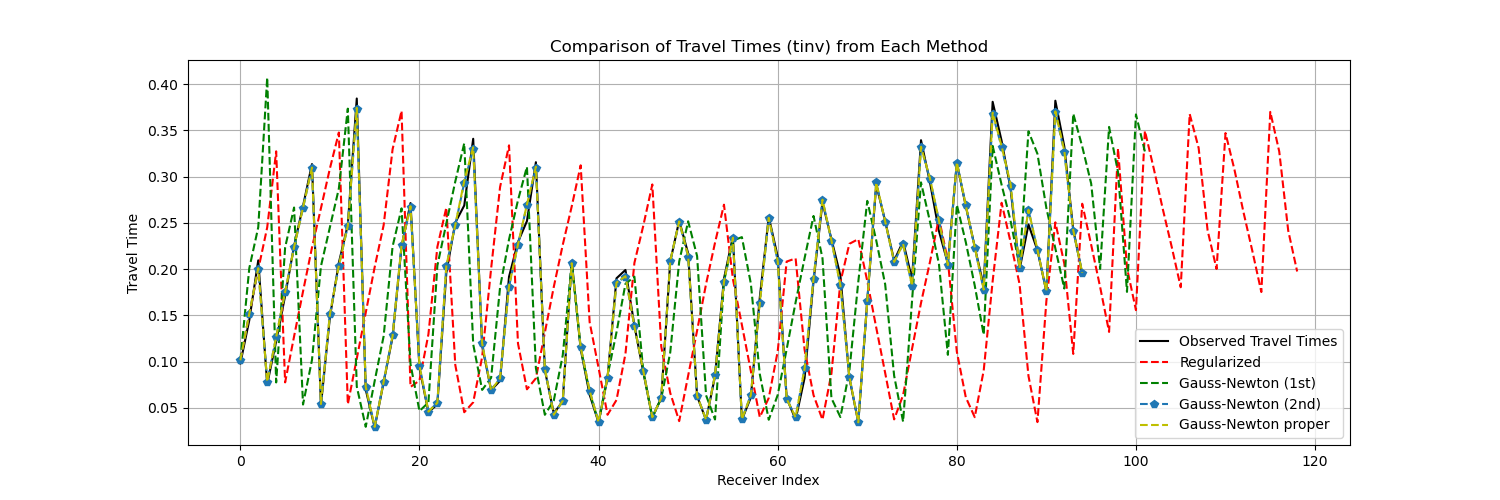
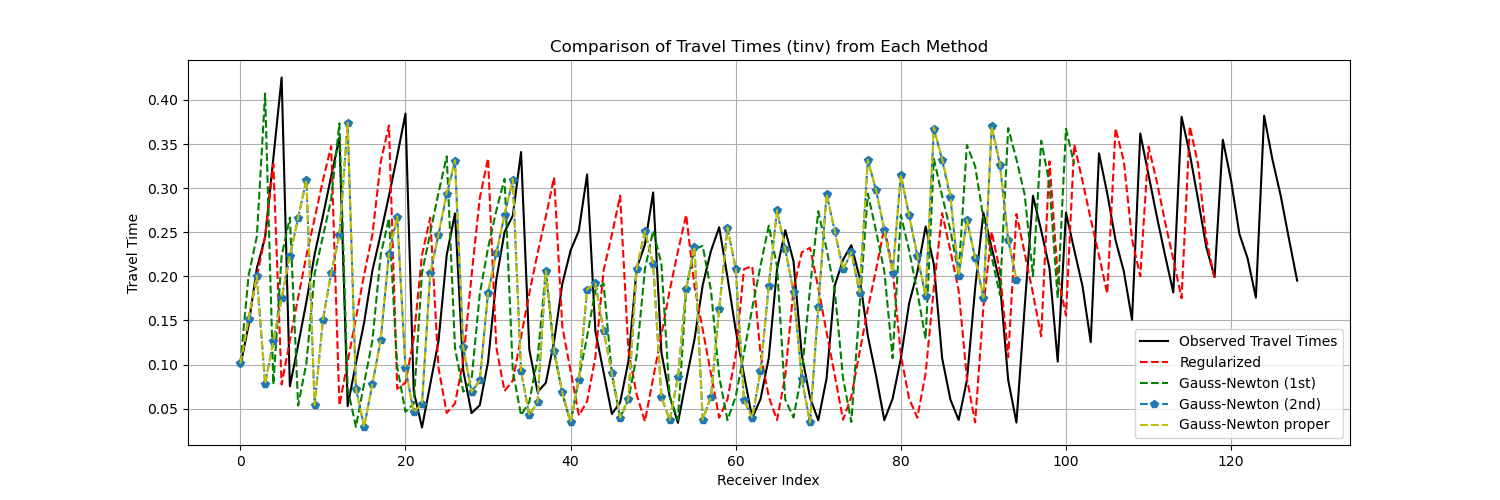
I tried one type of preconditioner (diagonal) but it does not give good result. see the ReftTomo_Figures folder ( figure 29 and 30). Suggestion: try 1- Gradient-Based  2- Multi-Scale  3- Weighted Laplacian  4- Data-Driven  (using cov).Instead of running the full ray tracing you can find some saved m

diff --git a/notebooks/RefrTomo.py b/notebooks/RefrTomo.py
@@ -151,8 +151,8 @@ plt.show()
 
 Robs = tomographic_matrix(avasurvey, dx, dz, 0, 0, nx, nz, x, z, plotflag=False, vel=vel_smooth)
 
-tobs = extract_tobs(avasurvey)
-tobs_R = Robs @ (1/vel_smooth.ravel())
+tobs_acutal = extract_tobs(avasurvey)
+tobs_acutal_R = Robs @ (1/vel_smooth.ravel())
 
 
 plt.figure()
@@ -170,8 +170,8 @@ plt.title('Smoothed velocity and Ray coverage')
 plt.show()
 
 plt.figure(figsize=(15, 3))
-plt.plot(tobs, 'r', label= "Acutal picks")
-plt.plot(tobs_R, 'k', label = "R picks")
+plt.plot(tobs_acutal, 'r', label= "Acutal picks")
+plt.plot(tobs_acutal_R, 'k', label = "R picks")
 plt.legend()
 plt.show()
 
@@ -190,6 +190,10 @@ Rinit = tomographic_matrix(initsurvey_matched, dx, dz, 0, 0, nx, nz, x, z,
 tobs = extract_tobs(avasurvey_matched)
 tobs_init = extract_tobs(initsurvey_matched)
 tinit = Rinit @ (1/vel_initial.ravel())
+
+# I need to use this for the preconditioned inversion .. I am not sure where I rewrote the variable
+initial_Rinit = Rinit.copy()
+initial_tobs_init = tobs_init.copy()
 
 plt.figure(figsize=(15, 3))
 plt.plot(tobs, 'r', label = 'Smoothed')
@@ -400,10 +404,10 @@ plt.show()
 
 #%% comparison
 
-# Comparison of Travel Times (tinv) from Each Method
+
 
 plt.figure(figsize=(15, 5))
-plt.plot(tobs, 'k', label='Observed Travel Times')
+plt.plot(tobs_acutal, 'k', label='Observed Travel Times')
 plt.plot(tinv_regularized, '--r', label='Regularized')
 plt.plot(tinv_gauss_newton_1, '--g', label='Gauss-Newton (1st)')
 plt.plot(tinv_gauss_newton_2, '--p', label='Gauss-Newton (2nd)')
@@ -457,13 +461,16 @@ plt.show()
 
 #%% Diagonal Preconditioner
 
+from pylops import Diagonal
+
 diag_P = (Rinit.T @ Rinit).diagonal()
-diag_P = np.diag(diag_P)
+# diag_P = np.diag(diag_P)
+# P = 1 / (diag_P + 1e-10)
+# Create a Diagonal operator for the preconditioner
+P_operator = Diagonal(diag=1 / (diag_P + 1e-10))
 
-P = 1 / (diag_P + 1e-10)
-
-slowninv_preconditioned = preconditioned_inversion(MatrixMult(Rinit),
-                                                   tobs, P, show=True,
+slowninv_preconditioned = preconditioned_inversion(MatrixMult(initial_Rinit),
+                                                   initial_tobs_init, P_operator, show=True,
                                                    x0=1. / vel_initial.ravel(),
                                                    **dict(iter_lim=100, damp=1e-1))[0]
 vel_preconditioned = 1. / (slowninv_preconditioned.reshape(nx, nz) + 1e-10)
@@ -474,6 +481,7 @@ im = plt.imshow(vel_preconditioned.T, cmap='jet', vmin=1800, vmax=3000, extent=(
 plt.scatter(r[0], r[1], marker='v', s=150, c='b', edgecolors='k')
 plt.scatter(s[0], s[1], marker='*', s=150, c='r', edgecolors='k')
 plt.colorbar(im)
+plt.axis('tight')
 plt.title('Preconditioned Velocity')
 plt.show()
 
